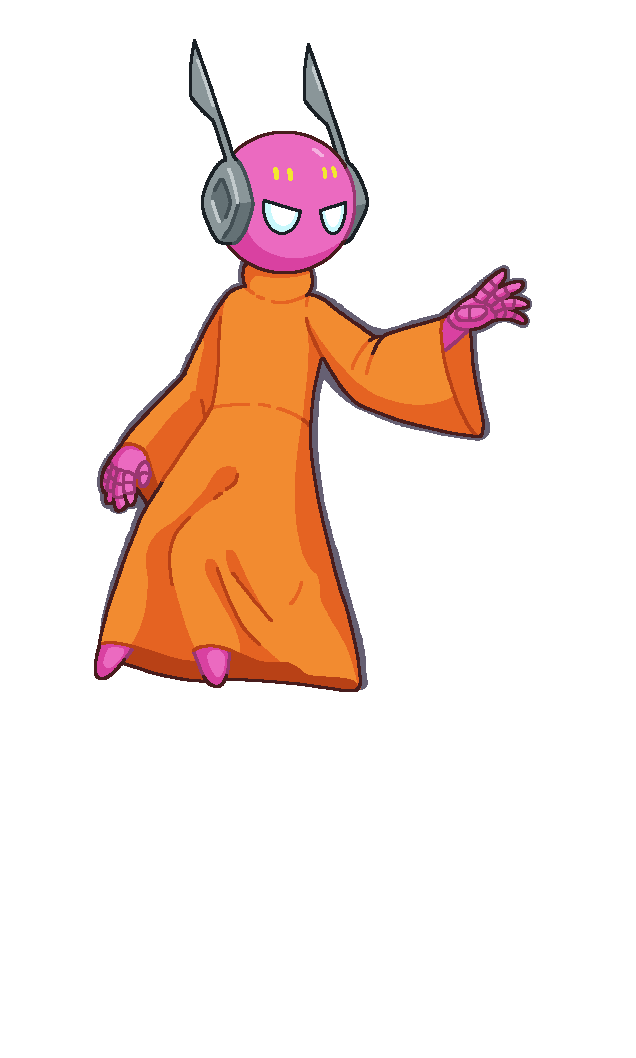
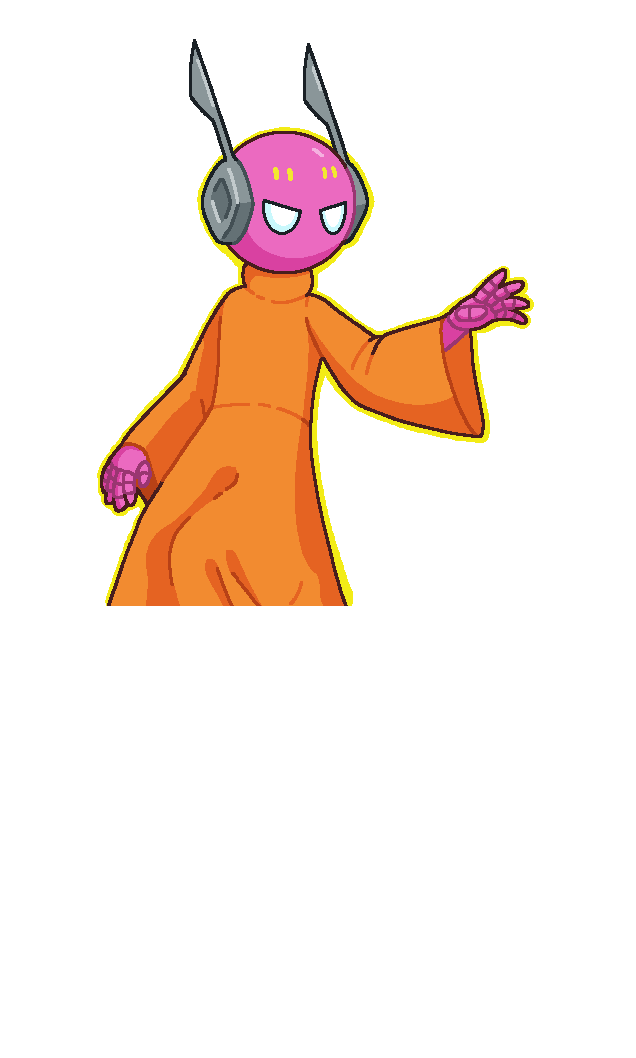
Bugfixes and more alt sprites

diff --git a/StatusEffects/Implementations/StatusEffectApplyXPreTurnIgnoreSilence.cs b/StatusEffects/Implementations/StatusEffectApplyXPreTurnIgnoreSilence.cs
@@ -1,0 +1,76 @@
+using RainfrostMod.Helpers;
+using System;
+using System.Collections;
+using System.Linq;
+using UnityEngine;
+
+namespace RainfrostMod.StatusEffects.Implementations
+{
+    internal class StatusEffectApplyXPreTurnIgnoreSilence : StatusEffectApplyXPreTurn
+    {
+        public bool cancelTransformBossAttacks = true;
+
+        public override void Init()
+        {
+            base.Init();
+            if (cancelTransformBossAttacks)
+                base.PreAttack += CheckTransformBoss;
+        }
+
+        public override bool RunPostHitEvent(Hit hit)
+        {
+            if (hit.target != target)
+                return false;
+            
+            if (target.hp.current > 0 || target.FindStatus("Scrap")?.count > 0)
+                return false;
+
+            if (!target.statusEffects.Any(t => t.type == "nextphase"))
+                return false;
+
+            return ActionQueue.GetActions().Any(a => (a as ActionChangePhase) != null && (a as ActionChangePhase).entity == target);
+        }
+
+        private IEnumerator CheckTransformBoss(Hit hit)
+        {
+            hit.countsAsHit = false;
+            hit.nullified = true;
+            hit.trigger = null;
+            yield break;
+        }
+
+        public override bool TargetSilenced()
+        {
+            return false;
+        }
+
+        public override bool CanTrigger()
+        {
+            LogHelper.Log("Can Trigger");
+            bool result = false;
+            if (target.enabled)
+                result = !affectedBySnow || !target.IsSnowed && !target.paused;
+            LogHelper.Log("Result: " + result);
+            if (!result || !dealDamage)
+                return effectToApply;
+            LogHelper.Log("True");
+            return true;
+        }
+
+        public override int GetAmount()
+        {
+            if (!target)
+            {
+                return 0;
+            }
+
+            if (!canBeBoosted)
+            {
+                return count;
+            }
+
+            return Mathf.Max(0, Mathf.RoundToInt((float)(count + target.effectBonus) * target.effectFactor));
+        }
+
+    }
+}

diff --git a/StatusEffects/Implementations/StatusEffectApplyXWhenYLostFix.cs b/StatusEffects/Implementations/StatusEffectApplyXWhenYLostFix.cs
@@ -1,0 +1,45 @@
+using RainfrostMod.Helpers;
+using System.Collections;
+using UnityEngine;
+
+namespace RainfrostMod.StatusEffects.Implementations
+{
+    internal class StatusEffectApplyXWhenYLostFix : StatusEffectApplyXWhenYLost
+    {
+        public override void Init()
+        {
+            Events.OnEntityDisplayUpdated += EntityDisplayUpdated;
+        }
+
+        public new void OnDestroy()
+        {
+            Events.OnEntityDisplayUpdated -= EntityDisplayUpdated;
+        }
+
+        public new void EntityDisplayUpdated(Entity entity)
+        {
+            int statusAmount = GetCurrentAmount();
+            if (!(active && statusAmount != currentAmount && entity == target))
+                return;
+            
+            int difference = statusAmount - currentAmount;
+            currentAmount = statusAmount;
+            if (!(difference < 0 && (!whenAllLost || currentAmount == 0) && target.enabled && !target.silenced && (!targetMustBeAlive || (target.alive && Battle.IsOnBoard(target)))))
+                return;
+
+            ActionQueue.Insert(0, new ActionSequence(Lost(-difference))
+            {
+                note = base.name,
+                priority = eventPriority
+            }, fixedPosition: true);
+        }
+
+        public new IEnumerator Lost(int amount)
+        {
+            if ((bool)this && (!targetMustBeAlive || target.alive))
+            {
+                yield return Run(GetTargets(null, GetTargetContainers(), GetTargetActualContainers()), amount);
+            }
+        }
+    }
+}

diff --git a/StatusEffects/WhenScrapLostDamageAlliesInRowAndEnemiesInRow.cs b/StatusEffects/WhenScrapLostDamageAlliesInRowAndEnemiesInRow.cs
@@ -1,26 +1,22 @@
-using Deadpan.Enums.Engine.Components.Modding;
+using RainfrostMod.StatusEffects.Implementations;
 using static StatusEffectApplyX;
 
 namespace RainfrostMod.StatusEffects
 {
-    internal class WhenScrapLostDamageAlliesInRowAndEnemiesInRow() : AbstractApplyXStatus<StatusEffectApplyXWhenYLost>(
+    internal class WhenScrapLostDamageAlliesInRowAndEnemiesInRow() : AbstractApplyXStatus<StatusEffectApplyXWhenYLostFix>(
         Name, "When scrap is lost, deal <{a}> to allies in the row and enemies in the row",
         canStack: true, canBoost: true,
         applyToFlags: ApplyToFlags.AlliesInRow | ApplyToFlags.EnemiesInRow,
         subscribe: status =>
         {
-            status.targetMustBeAlive = false;
             status.statusType = "scrap";
+            status.targetMustBeAlive = false;
+
             status.dealDamage = true;
+            status.doesDamage = true;
             status.countsAsHit = true;
         })
     {
         public const string Name = "When Scrap Lost Damage AlliesInRow And EnemiesInRow";
-
-        public override StatusEffectDataBuilder Builder()
-        {
-            return base.Builder()
-                .WithDoesDamage(true);
-        }
     }
 }

diff --git a/Rainfrost.cs b/Rainfrost.cs
@@ -88,7 +88,7 @@ namespace RainfrostMod
             Keywords.Zap.Data();
 
             //make sure you icon is in both the images folder and the sprites subfolder
-            StatusIconHelper.CreateIcon("zap", ImagePath("zap.png").ToSprite(), "zap", "frost", Color.black, [TryGet<KeywordData>(Keywords.Zap.Name)])
+            StatusIconHelper.CreateIcon("zap", Cards.GetSprite("zap"), "zap", "frost", Color.black, [TryGet<KeywordData>(Keywords.Zap.Name)])
                 .GetComponentInChildren<TextMeshProUGUI>(true).enabled = true;
 
             assets = [
@@ -142,7 +142,6 @@ namespace RainfrostMod
                 new OnCardPlayedTransformIntoAttunedSaint().Builder(),
 
                 new SummonSingularityBomb().Builder(),
-                new WhenDestroyedDamageAlliesInRowAndEnemiesInRow().Builder(),
                 new WhenScrapLostDamageAlliesInRowAndEnemiesInRow().Builder(),
 
                 new WhileActiveAddMultiHitToAlliedSlugcats().Builder(),

diff --git a/StatusEffects/OnCardPlayedDamageToNonRotAlliesInRow.cs b/StatusEffects/OnCardPlayedDamageToNonRotAlliesInRow.cs
@@ -8,14 +8,15 @@ namespace RainfrostMod.StatusEffects
         Name, $"Deal <{{a}}> damage to non-{KeywordHelper.Tag(Rot.Name)} allies in row",
         true, true,
         applyToFlags: ApplyToFlags.AlliesInRow,
-        subscribe: data =>
+        subscribe: status =>
         {
-            data.applyConstraints = [
+            status.applyConstraints = [
                 TargetConstraintHelper.HasTrait(Traits.Rot.Name, not: true)
             ];
-            data.dealDamage = true;
-            data.doesDamage = true;
-            data.countsAsHit = true;
+
+            status.dealDamage = true;
+            status.doesDamage = true;
+            status.countsAsHit = true;
         })
     {
         public const string Name = "On Card Played Deal Damage To Non Rot Allies In Row";

diff --git a/Cards/Companion/Slugpup.cs b/Cards/Companion/Slugpup.cs
@@ -4,7 +4,7 @@ using RainfrostMod.Traits;
 namespace RainfrostMod.Cards.Companion
 {
     internal class Slugpup() : AbstractUnit(
-        Name, "Slugpup",
+        Name, "Slugpups",
         2, 1, 3,
         subscribe: card =>
         {
@@ -17,7 +17,8 @@ namespace RainfrostMod.Cards.Companion
             ];
 
             card.greetMessages = ["...Wawa! (It seems they wish to join you.)"];
-        })
+        },
+        altSprite: true)
     {
         public const string Name = "Slugpup";
     }

diff --git a/StatusEffects/Zap.cs b/StatusEffects/Zap.cs
@@ -1,11 +1,12 @@
 using Deadpan.Enums.Engine.Components.Modding;
 using RainfrostMod.Helpers;
+using RainfrostMod.StatusEffects.Implementations;
 using WildfrostHopeMod.VFX;
 using static StatusEffectApplyX;
 
 namespace RainfrostMod.StatusEffects
 {
-    internal class Zap() : AbstractApplyXStatus<StatusEffectApplyXPreTurn>(
+    internal class Zap() : AbstractApplyXStatus<StatusEffectApplyXPreTurnIgnoreSilence>(
         Name,
         canStack: true,
         canBoost: true,

diff --git a/Helpers/StatusIconHelper.cs b/Helpers/StatusIconHelper.cs
@@ -42,6 +42,7 @@ namespace RainfrostMod.Helpers
             CardPopUpTarget cardPopUp = gameObject.AddComponent<CardPopUpTarget>();
             cardPopUp.keywords = keys;
             cardHover.pop = cardPopUp;
+            cardPopUp.posX = -1; // Display keyword to the left of the card
             RectTransform rectTransform = gameObject.GetComponent<RectTransform>();
             rectTransform.anchorMin = Vector2.zero;
             rectTransform.anchorMax = Vector2.zero;

diff --git a/Cards/Clunkers/SingularityBomb.cs b/Cards/Clunkers/SingularityBomb.cs
@@ -11,7 +11,6 @@ namespace RainfrostMod.Cards.Clunkers
         {
             card.startWithEffects = [
                 .. card.startWithEffects,
-                Rainfrost.SStack(WhenDestroyedDamageAlliesInRowAndEnemiesInRow.Name, 50),
                 Rainfrost.SStack(WhenScrapLostDamageAlliesInRowAndEnemiesInRow.Name, 50),
             ];
         })

diff --git a/Cards/Companion/Gourmand.cs b/Cards/Companion/Gourmand.cs
@@ -17,7 +17,8 @@ namespace RainfrostMod.Cards.Companion
             ];
 
             card.greetMessages = ["Wa, wawa. (It seems they want to tag along.)"];
-        })
+        },
+        altSprite: true)
     {
         public const string Name = "Gourmand";
     }
